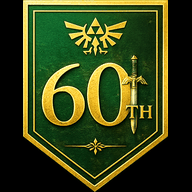
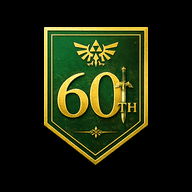
アイコンの紋章を小さくして黒い余白を増やす
紋章の高さをアイコンの72%にして、まわりに黒い余白を取る。
maskable は円形に切られても角が欠けないよう62%にする。

Claude-Session: https://claude.ai/code/session_01PbnAyXA8mb6g3gYcQniv5M

diff --git a/scripts/generate-icons.py b/scripts/generate-icons.py
@@ -5,7 +5,7 @@
     python3 scripts/generate-icons.py
 
 元になる紋章は scripts/icon-crest.png（背景を切り抜いた PNG）。
-黒地の正方形に、余白なしで（上下いっぱいに）配置する。
+黒地の正方形の中央に、まわりに黒い余白を取って配置する。
 """
 import os
 
@@ -19,7 +19,7 @@ BG = (0, 0, 0)
 
 
 def build(size: int, fill: float = 1.0) -> Image.Image:
-    """黒の正方形に紋章を置く。fill は高さに対する紋章の割合。"""
+    """黒の正方形に紋章を置く。fill は正方形の高さに対する紋章の高さの割合。"""
     crest = Image.open(CREST).convert('RGBA')
     h = round(size * fill)
     w = round(crest.width * h / crest.height)
@@ -36,12 +36,12 @@ def build(size: int, fill: float = 1.0) -> Image.Image:
 def main() -> int:
     os.makedirs(os.path.join(PUBLIC, 'icons'), exist_ok=True)
     targets = [
-        ('icons/icon-192.png', 192, 1.0),
-        ('icons/icon-512.png', 512, 1.0),
-        # maskable は端が切り取られるので、安全領域（中央80%）に収める
-        ('icons/icon-maskable-512.png', 512, 0.78),
-        ('apple-touch-icon.png', 192, 1.0),
-        ('favicon.png', 64, 1.0),
+        ('icons/icon-192.png', 192, 0.72),
+        ('icons/icon-512.png', 512, 0.72),
+        # maskable は円形に切り取られることがあるので、角まで安全領域に収める
+        ('icons/icon-maskable-512.png', 512, 0.62),
+        ('apple-touch-icon.png', 192, 0.72),
+        ('favicon.png', 64, 0.80),
     ]
     for name, size, fill in targets:
         path = os.path.join(PUBLIC, name)
